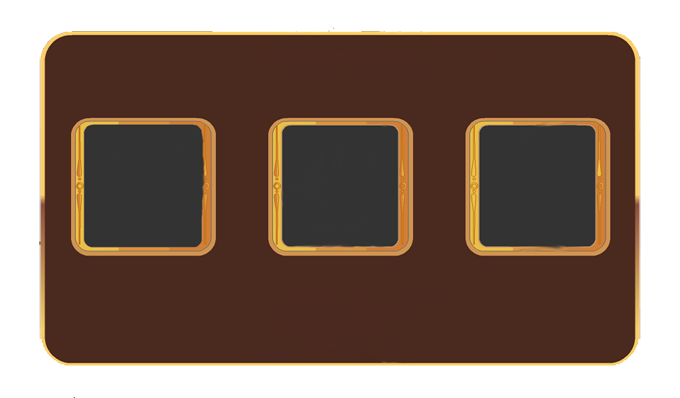
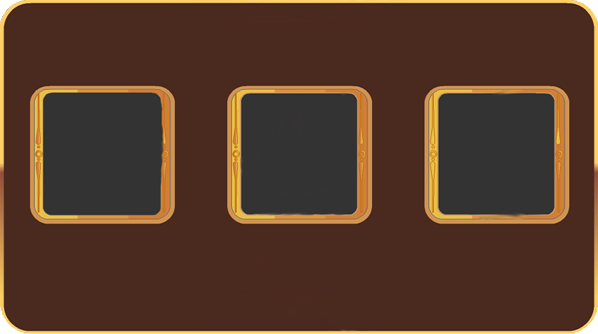
Renamed font constants and resized bonus game image

diff --git a/BonusGame.cpp b/BonusGame.cpp
@@ -2,14 +2,7 @@
 
 BonusGame::BonusGame() : State()
 {
-	m_TextureBackground = NULL;
-	m_LabelWinSign = NULL;
-	m_TextFieldCredits = NULL;
-	m_FontCredits = NULL;
-	m_FontWin = NULL;
-	m_uiCredits = 0;
-	m_iX = 0;
-	m_iY = 0;
+	NullAll();
 }
 
 BonusGame::BonusGame(SDL_Renderer* newRenderer) : State(newRenderer)
@@ -21,18 +14,24 @@ BonusGame::BonusGame(SDL_Renderer* newRenderer) : State(newRenderer)
 	m_iX = (g_ScreenWidth - g_BonusWidth) / 2;
 	m_iY = (g_ScreenHeight - g_BonusHeight) / 2;
 
-	m_FontCredits = TTF_OpenFont(g_LabelFont, g_BonusFontSizeCredits);
-	m_FontWin = TTF_OpenFont(g_WinFont, g_BonusFontSizeWin);
+	m_FontCredits = TTF_OpenFont(g_FontLabel, g_BonusFontSizeCredits);
+	if(m_FontCredits == NULL)
+		std::cerr << "Failed to load Label Font! SDL Error: " << TTF_GetError() << std::endl;
 
-	m_LabelWinSign = new Label(m_Renderer);
-	m_LabelWinSign->SetText("Bonus game", m_FontWin, SDL_Color{0xF0, 0xF0, 0x00, 0xFF});
-	m_LabelWinSign->SetX(m_iX + (g_BonusWidth - m_LabelWinSign->GetWidth()) / 2);
-	m_LabelWinSign->SetY(m_iY + (g_BonusHeight - m_LabelWinSign->GetHeight()) / 2 + g_BonusOffsetY);
+	m_FontTitle = TTF_OpenFont(g_FontTitle, g_BonusFontSizeWin);
+	if(m_FontTitle == NULL)
+		std::cerr << "Failed to load Title Font! SDL Error: " << TTF_GetError() << std::endl;
+
+	m_LabelTitleSign = new Label(m_Renderer);
+	m_LabelTitleSign->SetText("Bonus game", m_FontTitle, SDL_Color{0xF0, 0xF0, 0x00, 0xFF});
+	m_LabelTitleSign->SetX(m_iX + (g_BonusWidth - m_LabelTitleSign->GetWidth()) / 2);
+	m_LabelTitleSign->SetY(m_iY + (g_BonusHeight - m_LabelTitleSign->GetHeight()) / 2 + g_BonusOffsetY);
 
 	m_TextFieldCredits = new TextField(m_Renderer);
 	m_TextFieldCredits->SetFieldSize(g_BonusCreditHeight, g_BonusCreditsWidth);
 	m_TextFieldCredits->SetX(m_iX + (g_BonusWidth - m_TextFieldCredits->GetWidth()) / 2);
 	m_TextFieldCredits->SetY(m_iY + (g_BonusHeight - m_TextFieldCredits->GetHeight()) / 2 + g_BonusCreditOffsetY);
+	m_TextFieldCredits->SetText("Choose your treasure!", m_FontCredits, SDL_Color{0xFF, 0xFF, 0xFF, 0xFF});
 
 	m_uiCredits = 0;
 }
@@ -40,15 +39,14 @@ BonusGame::BonusGame(SDL_Renderer* newRenderer) : State(newRenderer)
 BonusGame::~BonusGame()
 {
 	SDL_DestroyTexture(m_TextureBackground);
-	delete m_LabelWinSign;
+
+	delete m_LabelTitleSign;
 	delete m_TextFieldCredits;
+
 	TTF_CloseFont(m_FontCredits);
-	TTF_CloseFont(m_FontWin);
-	m_TextureBackground = NULL;
-	m_LabelWinSign = NULL;
-	m_TextFieldCredits = NULL;
-	m_FontCredits = NULL;
-	m_FontWin = NULL;
+	TTF_CloseFont(m_FontTitle);
+
+	NullAll();
 }
 
 void BonusGame::EventHandler(SDL_Event& e)
@@ -60,7 +58,7 @@ void BonusGame::Render(bool UpdateOnly)
 {
 	if(!UpdateOnly)
 	{
-		if(m_Renderer == NULL || m_TextureBackground == NULL || m_FontCredits == NULL || m_FontWin == NULL)
+		if(m_Renderer == NULL || m_TextureBackground == NULL || m_FontCredits == NULL || m_FontTitle == NULL)
 			return;
 
 		SDL_Rect tempRect;
@@ -70,23 +68,36 @@ void BonusGame::Render(bool UpdateOnly)
 		tempRect.y = m_iY;
 
 		SDL_RenderCopy(m_Renderer, m_TextureBackground, NULL, &tempRect);
-
-		SDL_SetRenderDrawColor(m_Renderer, 0xFF, 0xFF, 0xFF, 0xFF);
-		SDL_RenderDrawRect(m_Renderer, &tempRect);
 	}
 
-	m_LabelWinSign->Render(UpdateOnly);
+	m_LabelTitleSign->Render(UpdateOnly);
 	m_TextFieldCredits->Render(UpdateOnly);
 }
 
 void BonusGame::SetCredits(unsigned int credits)
-{
-	m_uiCredits = credits;
+{//TODO
+	/*m_uiCredits = credits;
 	std::string strCredits;
 	std::stringstream ss;
 
 	ss << "YOU WON: " << m_uiCredits;
 	strCredits = ss.str();
 
-	m_TextFieldCredits->SetText(strCredits, m_FontCredits, SDL_Color{0xFF, 0xFF, 0xFF, 0xFF});
+	m_TextFieldCredits->SetText(strCredits, m_FontCredits, SDL_Color{0xFF, 0xFF, 0xFF, 0xFF});*/
+}
+
+void BonusGame::NullAll()
+{
+	m_TextureBackground = NULL;
+
+	m_LabelTitleSign = NULL;
+	m_TextFieldCredits = NULL;
+
+	m_FontCredits = NULL;
+	m_FontTitle = NULL;
+
+	m_uiCredits = 0;
+
+	m_iX = 0;
+	m_iY = 0;
 }

diff --git a/Outro.cpp b/Outro.cpp
@@ -21,12 +21,12 @@ Outro::Outro(SDL_Renderer* newRenderer) : State(newRenderer)
 	m_TextFieldMoney->SetX(m_iX + (g_OutroWidth - m_TextFieldMoney->GetWidth()) / 2);
 	m_TextFieldMoney->SetY(m_iY + (g_OutroHeight - m_TextFieldMoney->GetHeight()) / 2 + g_OutroMoneyOffsetY);
 
-	m_FontMoney = TTF_OpenFont(g_LabelFont, g_OutroFontSizeMoney);
+	m_FontMoney = TTF_OpenFont(g_FontLabel, g_OutroFontSizeMoney);
 	if(m_FontMoney == NULL)
 			std::cerr << "Failed to load Label Font! SDL Error: " << TTF_GetError() << std::endl;
 
-	m_FontWin = TTF_OpenFont(g_WinFont, g_OutroFontSizeWin);
-	if(m_FontWin == NULL)
+	m_FontTitle = TTF_OpenFont(g_FontTitle, g_OutroFontSizeWin);
+	if(m_FontTitle == NULL)
 			std::cerr << "Failed to load Win Font! SDL Error: " << TTF_GetError() << std::endl;
 
 	m_fCashOutAmmount = 0;
@@ -42,7 +42,7 @@ Outro::~Outro()
 	delete m_TextFieldMoney;
 
 	TTF_CloseFont(m_FontMoney);
-	TTF_CloseFont(m_FontWin);
+	TTF_CloseFont(m_FontTitle);
 
 	NullAll();
 }
@@ -53,7 +53,7 @@ void Outro::EventHandler(SDL_Event& e)
 
 void Outro::Render(bool UpdateOnly)
 {
-	if(!m_Renderer || !m_TextureBackground || !m_FontMoney || !m_FontWin)
+	if(!m_Renderer || !m_TextureBackground || !m_FontMoney || !m_FontTitle)
 		return;
 
 	if(!UpdateOnly)
@@ -102,7 +102,7 @@ void Outro::SetCredits(unsigned int newCredits)
 	else
 		strWin = g_OutroWinSign[2];
 
-	m_LabelWinSign->SetText(strWin, m_FontWin, SDL_Color{0xF0, 0xF0, 0x00, 0xFF});
+	m_LabelWinSign->SetText(strWin, m_FontTitle, SDL_Color{0xF0, 0xF0, 0x00, 0xFF});
 	m_LabelWinSign->SetX(m_iX + (g_OutroWidth - m_LabelWinSign->GetWidth()) / 2);
 	m_LabelWinSign->SetY(m_iY + (g_OutroHeight - m_LabelWinSign->GetHeight()) / 2 + g_OutroWinOffsetY);
 }
@@ -114,7 +114,7 @@ void Outro::NullAll()
 	m_TextFieldMoney = NULL;
 
 	m_FontMoney = NULL;
-	m_FontWin = NULL;
+	m_FontTitle = NULL;
 
 	m_fCashOutAmmount = 0;
 

diff --git a/Win.cpp b/Win.cpp
@@ -14,16 +14,16 @@ Win::Win(SDL_Renderer* newRenderer) : State(newRenderer)
 	m_iX = (g_ScreenWidth - g_WinWidth) / 2;
 	m_iY = (g_ScreenHeight - g_WinHeight) / 2;
 
-	m_FontCredits = TTF_OpenFont(g_LabelFont, g_WinFontSizeCredits);
+	m_FontCredits = TTF_OpenFont(g_FontLabel, g_WinFontSizeCredits);
 	if(m_FontCredits == NULL)
 			std::cerr << "Failed to load Label Font! SDL Error: " << TTF_GetError() << std::endl;
 
-	m_FontWin = TTF_OpenFont(g_WinFont, g_WinFontSizeSign);
+	m_FontTitle = TTF_OpenFont(g_FontTitle, g_WinFontSizeSign);
 	if(m_FontCredits == NULL)
 			std::cerr << "Failed to load Win Font! SDL Error: " << TTF_GetError() << std::endl;
 
 	m_LabelWinSign = new Label(m_Renderer);
-	m_LabelWinSign->SetText(g_WinSign, m_FontWin, SDL_Color{0xF0, 0xF0, 0x00, 0xFF});
+	m_LabelWinSign->SetText(g_WinSign, m_FontTitle, SDL_Color{0xF0, 0xF0, 0x00, 0xFF});
 	m_LabelWinSign->SetX(m_iX + (g_WinWidth - m_LabelWinSign->GetWidth()) / 2);
 	m_LabelWinSign->SetY(m_iY + (g_WinHeight - m_LabelWinSign->GetHeight()) / 2 + g_WinSignOffsetY);
 
@@ -45,7 +45,7 @@ Win::~Win()
 	delete m_TextFieldCredits;
 
 	TTF_CloseFont(m_FontCredits);
-	TTF_CloseFont(m_FontWin);
+	TTF_CloseFont(m_FontTitle);
 
 	NullAll();
 }
@@ -57,7 +57,7 @@ void Win::EventHandler(SDL_Event& e)
 
 void Win::Render(bool UpdateOnly)
 {
-	if(!m_Renderer || !m_TextureBackground || !m_FontCredits || !m_FontWin)
+	if(!m_Renderer || !m_TextureBackground || !m_FontCredits || !m_FontTitle)
 		return;
 
 	if(!UpdateOnly)
@@ -103,7 +103,7 @@ void Win::NullAll()
 	m_LabelWinSign = NULL;
 	m_TextFieldCredits = NULL;
 	m_FontCredits = NULL;
-	m_FontWin = NULL;
+	m_FontTitle = NULL;
 
 	m_uiCredits = 0;
 

diff --git a/Constants.h b/Constants.h
@@ -7,8 +7,8 @@
 const int g_ScreenWidth = 1280;
 const int g_ScreenHeight = 720;
 
-const char g_LabelFont[] = "fonts/Roboto-Medium.ttf";
-const char g_WinFont[] = "fonts/Digitalt.ttf";
+const char g_FontLabel[] = "fonts/Roboto-Medium.ttf";
+const char g_FontTitle[] = "fonts/Digitalt.ttf";
 
 const char g_IntroButtonNewGame[] = "Start new game";
 const char g_IntroButtonResumeGame[] = "Resume game";
@@ -52,8 +52,8 @@ const int g_GameBetIncriment = 25;
 const int g_GameMaxBetAmmount = 500;
 const int g_GameMaxLines = 15;
 
-const int g_BonusWidth = 680;
-const int g_BonusHeight = 398;
+const int g_BonusWidth = 598;
+const int g_BonusHeight = 334;
 const int g_BonusFontSizeCredits = 55;
 const int g_BonusFontSizeWin = 80;
 const int g_BonusOffsetY = -120;

diff --git a/Intro.cpp b/Intro.cpp
@@ -14,7 +14,7 @@ Intro::Intro(SDL_Renderer* newRenderer) : State(newRenderer)
 	if( m_TextureBackground == NULL )
 		std::cerr << "Failed to load TextureBackground! SDL Error: " << IMG_GetError() << std::endl;
 
-	m_Font = TTF_OpenFont(g_LabelFont, g_IntroFontSize);
+	m_Font = TTF_OpenFont(g_FontLabel, g_IntroFontSize);
 	if( m_Font == NULL )
 		std::cerr << "Failed to load Label Font! SDL Error: " << IMG_GetError() << std::endl;
 

diff --git a/BonusGame.h b/BonusGame.h
@@ -20,13 +20,17 @@ public:
 	void Render(bool = true);
 	void SetCredits(unsigned int);
 private:
+	void NullAll();
+private:
 	SDL_Texture* m_TextureBackground;
-	Label* m_LabelWinSign;
+	Label* m_LabelTitleSign;
 	TextField* m_TextFieldCredits;
+
 	TTF_Font* m_FontCredits;
-	TTF_Font* m_FontWin;
+	TTF_Font* m_FontTitle;
 
 	unsigned int m_uiCredits;
+
 	int m_iX;
 	int m_iY;
 };

diff --git a/Win.h b/Win.h
@@ -27,7 +27,7 @@ private:
 	TextField* m_TextFieldCredits;
 
 	TTF_Font* m_FontCredits;
-	TTF_Font* m_FontWin;
+	TTF_Font* m_FontTitle;
 
 	unsigned int m_uiCredits;
 

diff --git a/Outro.h b/Outro.h
@@ -27,7 +27,7 @@ private:
 	TextField* m_TextFieldMoney;
 
 	TTF_Font* m_FontMoney;
-	TTF_Font* m_FontWin;
+	TTF_Font* m_FontTitle;
 
 	float m_fCashOutAmmount;
 
